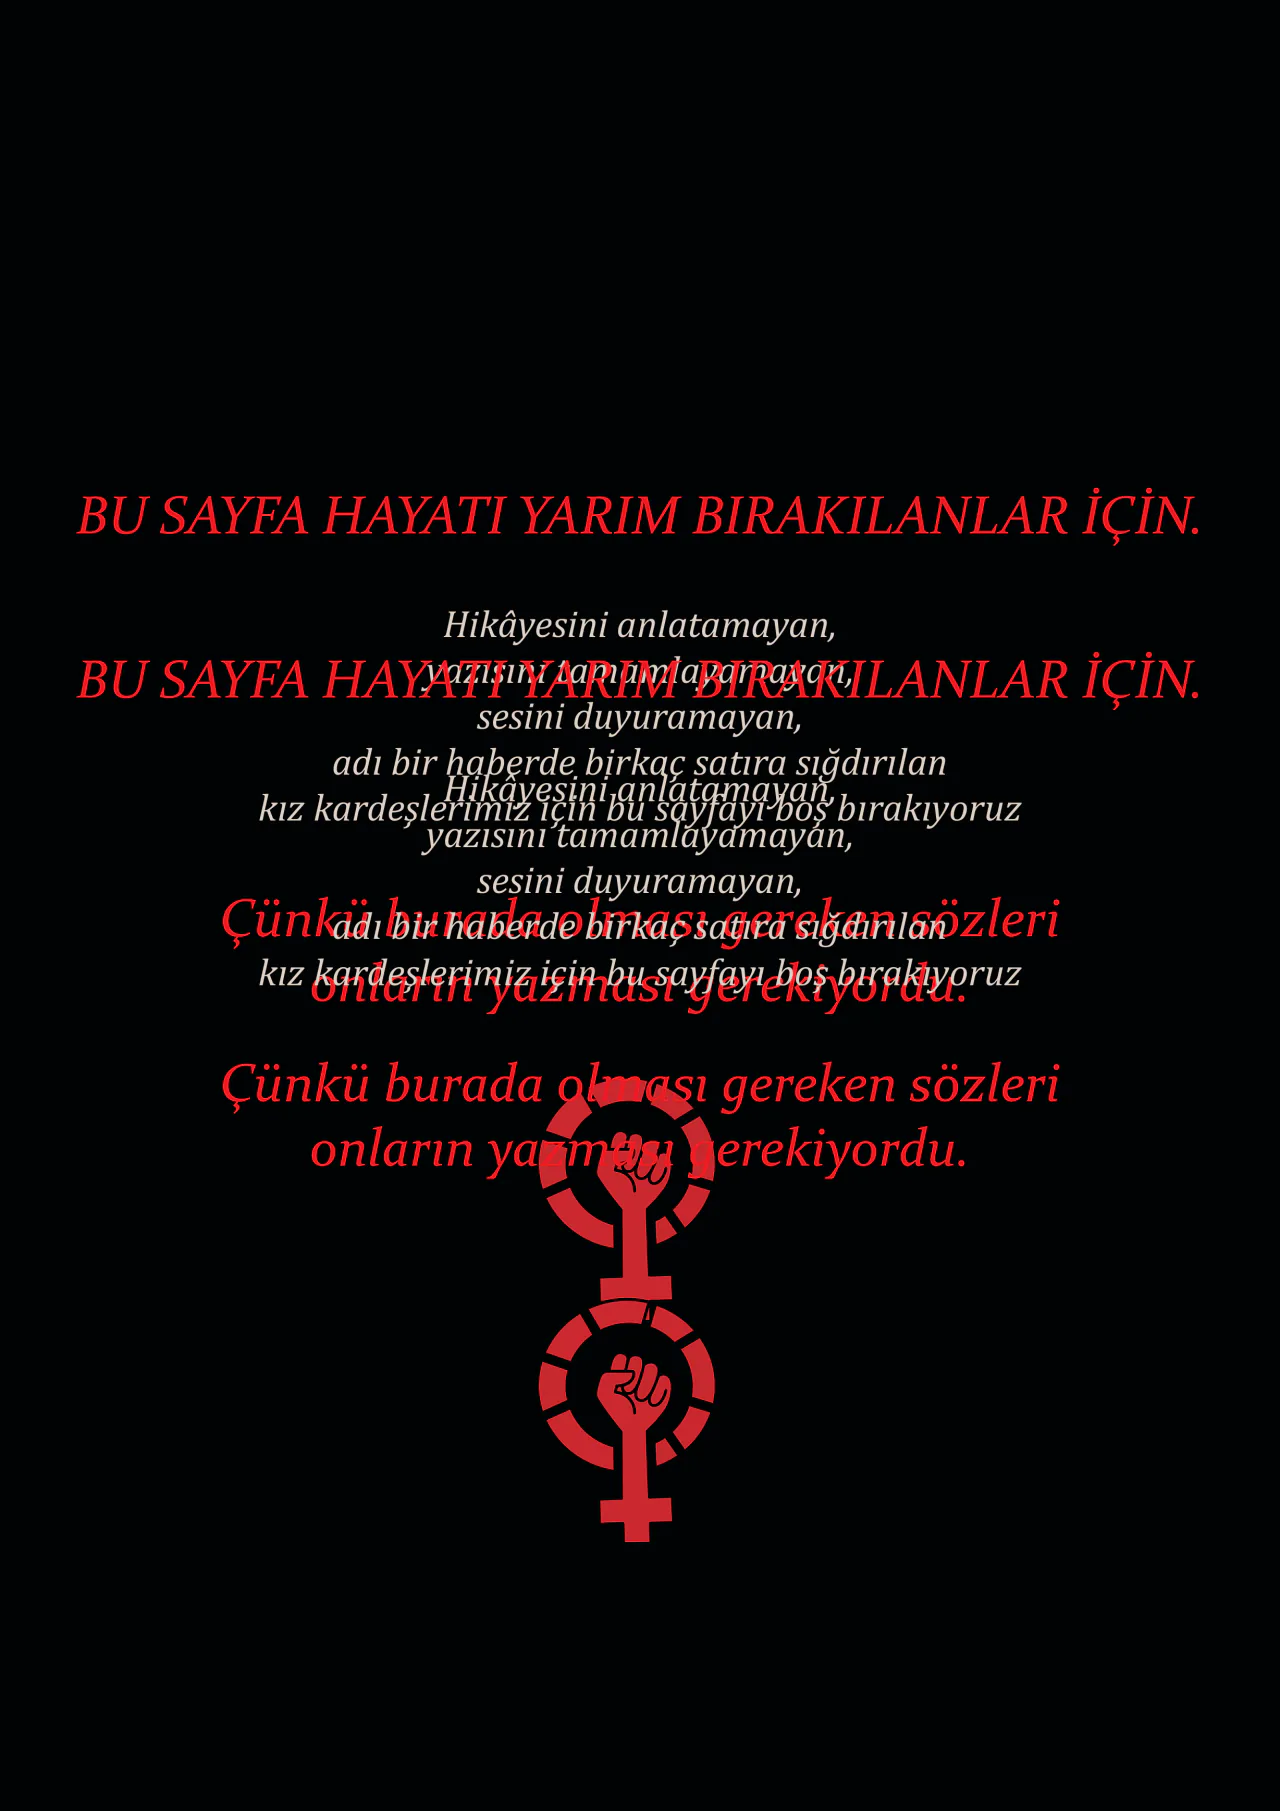
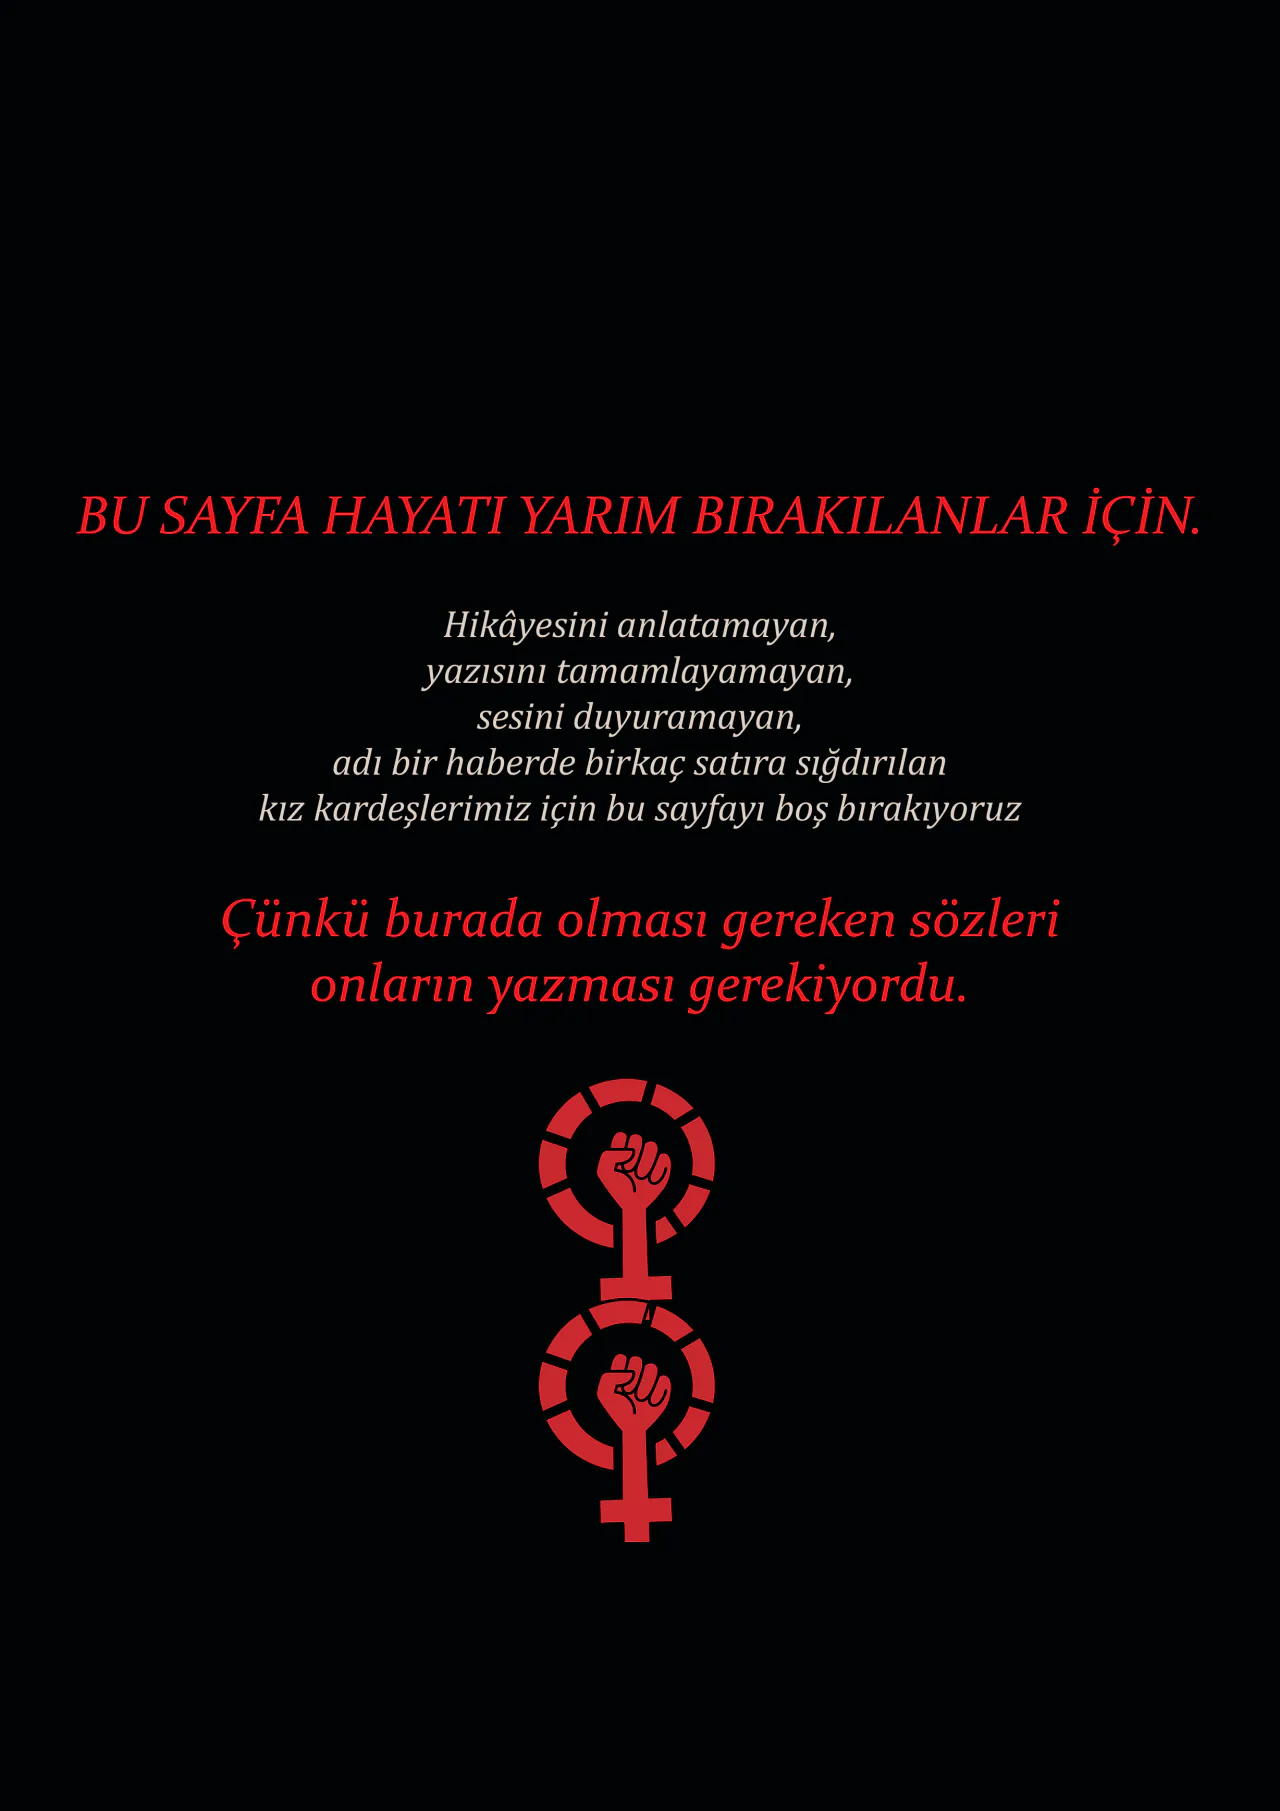
step 239: Sayı 01 anma sayfasındaki çift metin çizimden çıkarıldı, ön kısım panel sırasıyla (D-324)

diff --git a/panel/src/lib/issue-design/issue-01.ts b/panel/src/lib/issue-design/issue-01.ts
@@ -40,8 +40,9 @@
  *    still says 04 and its pages 07/08 under a "BİLİM & TEKNOLOJİ" header.
  *    It sits where its contents number (02) and the gap 10–15 put it, and its
  *    pages follow the text, which runs on from one page to the next.
- *  - The front matter (editor's letter, two contents pages, the memorial
- *    page) has no printed numbers. Its order here is a preview order.
+ *  - The front matter has no printed numbers. Its order is the one an admin
+ *    set by hand in the panel after the first import (D-324): the memorial
+ *    page right after the cover, then the letter and the two contents pages.
  *  - The two covers sit side by side in "POSTSCRIPT 01.ai" the way a wrap-around
  *    cover does: the back on the left, the front on the right. So the front
  *    comes first and the back last.
@@ -73,6 +74,24 @@ export const ISSUE_01_DESIGN: DesignManifest = {
       transcript:
         "POSTSCRIPT. Takıntının Trajedisi — Zihnin Zahir ile imtihanı. Takıntılı Bilim İnsanları — Fizik ve Obsesyon. Sayı 01, Ekim 2026. OBSESSSION",
       areas: [],
+    },
+    {
+      key: "anma",
+      source: "POSTSCRIPT 01.ai",
+      sourcePage: 5,
+      printedNumber: null,
+      role: "page",
+      title: "Hayatı yarım bırakılanlar için",
+      contents: "Hayatı Yarım Bırakılanlar İçin",
+      alt: "Siyah zeminde kırmızı yazılarla bir anma metni; altında iki kadın sembolünün içinde kalkmış yumruk.",
+      transcript: [
+        "BU SAYFA HAYATI YARIM BIRAKILANLAR İÇİN.",
+        "Hikâyesini anlatamayan, yazısını tamamlayamayan, sesini duyuramayan, adı bir haberde birkaç satıra sığdırılan kız kardeşlerimiz için bu sayfayı boş bırakıyoruz.",
+        "Çünkü burada olması gereken sözleri onların yazması gerekiyordu.",
+      ].join("\n\n"),
+      areas: [],
+      // The file has the text twice, the 2nd copy 316 pt lower over the symbol (D-324)
+      omitTextObjects: [3, 4],
     },
     {
       key: "sunus",
@@ -131,23 +150,6 @@ export const ISSUE_01_DESIGN: DesignManifest = {
         "09 — LIFESTYLE & FASHION: El Alem Ne Giyer? Bir Parçanın Peşinden Gitmek. “Aesthetic” Hayatlar. Skincare: Cilt Bakımı mı, Cilt Takıntısı mı. Parfüm: Bir Takıntının Kokusu. Dijital Takıntı. Takıntıdan Dönüşen Stil: Streetwear.",
         "10 — YAZAR KÖŞESİ: “P.S.”: Takıntının Trajedisi: Zihnin Zahir'le İmtihanı. Takıntı: Kar Tanesi ve Zihnin Sonsuz Fraktalı. Susamayan Zihinlerin Yankısı.",
         "11 — EĞLENCE & DEDİKODU: Başarı Takıntısı Grubun Önüne Geçer mi? Çay Koy Yeniden Başlayalım: Bir Fincandaki Gizli Şifa. Hangi Takıntılı Karaktersin? QUIZ!",
-      ].join("\n\n"),
-      areas: [],
-    },
-    {
-      key: "anma",
-      source: "POSTSCRIPT 01.ai",
-      sourcePage: 5,
-      printedNumber: null,
-      role: "page",
-      title: "Hayatı yarım bırakılanlar için",
-      contents: "Hayatı Yarım Bırakılanlar İçin",
-      alt: "Siyah zeminde kırmızı yazılarla bir anma metni; altında iki kadın sembolünün içinde kalkmış yumruk.",
-      // The page prints the text twice, one copy over the other; read once
-      transcript: [
-        "BU SAYFA HAYATI YARIM BIRAKILANLAR İÇİN.",
-        "Çünkü burada olması gereken sözleri onların yazması gerekiyordu.",
-        "Hikâyesini anlatamayan, yazısını tamamlayamayan, sesini duyuramayan, adı bir haberde birkaç satıra sığdırılan kız kardeşlerimiz için bu sayfayı boş bırakıyoruz.",
       ].join("\n\n"),
       areas: [],
     },

diff --git a/panel/scripts/render-issue-design.ts b/panel/scripts/render-issue-design.ts
@@ -34,6 +34,32 @@ function sha256(buffer: Uint8Array): string {
   return createHash("sha256").update(buffer).digest("hex");
 }
 
+/**
+ * Drops the listed BT…ET text objects from a page's content stream, in the
+ * copy held in memory (D-324). Refuses rather than guessing when the page
+ * has fewer text objects than asked for: the file must have changed.
+ */
+function omitTextObjects(doc: mupdf.Document, pageIndex: number, numbers: number[]): void {
+  const page = (doc as mupdf.PDFDocument).loadPage(pageIndex) as mupdf.PDFPage;
+  const contents = page.getObject().get("Contents");
+  const streams = contents.isArray() ? Array.from({ length: contents.length }, (_, i) => contents.get(i)) : [contents];
+  let seen = 0;
+  const dropped = new Set<number>();
+  for (const stream of streams) {
+    const text = stream.readStream().asString().replace(/\bBT\b[\s\S]*?\bET\b/g, (object) => {
+      seen += 1;
+      if (!numbers.includes(seen)) return object;
+      dropped.add(seen);
+      return "";
+    });
+    stream.writeStream(text);
+  }
+  const missing = numbers.filter((number) => !dropped.has(number));
+  if (missing.length) {
+    throw new Error(`Sayfa ${pageIndex + 1}: ${seen} metin nesnesi var, ${missing.join(", ")} bulunamadı. Dosya değişmiş olabilir.`);
+  }
+}
+
 async function main(): Promise<void> {
   const issueNumber = Number(argument("issue") ?? "1");
   const manifest = DESIGNS.find((entry) => entry.issueNumber === issueNumber);
@@ -76,6 +102,7 @@ async function main(): Promise<void> {
     if (page.sourcePage > doc.countPages()) {
       throw new Error(`${page.source} dosyasında ${page.sourcePage}. sayfa yok (${doc.countPages()} sayfa).`);
     }
+    if (page.omitTextObjects?.length) omitTextObjects(doc, page.sourcePage - 1, page.omitTextObjects);
     const drawn = doc.loadPage(page.sourcePage - 1);
     const [x0, y0, x1, y1] = drawn.getBounds();
     const scale = manifest.renderWidth / (x1 - x0);

diff --git a/panel/tests/unit/issue-design.test.ts b/panel/tests/unit/issue-design.test.ts
@@ -152,6 +152,11 @@ describe("issue 01 as shipped", () => {
     expect(issue.pages.at(-1)!.role).toBe("back_cover");
   });
 
+  it("keeps the front matter in the order set in the panel, the memorial page drawn once (D-324)", () => {
+    expect(issue.pages.slice(0, 5).map((entry) => entry.key)).toEqual(["on-kapak", "anma", "sunus", "icindekiler-1", "icindekiler-2"]);
+    expect(issue.pages[1]!.omitTextObjects).toEqual([3, 4]);
+  });
+
   it("keeps the science section in printed order 04 → 09", () => {
     const science = issue.pages.filter((entry) => entry.source === "POSTSCRIPT bilim.ai").map((entry) => entry.printedNumber);
     expect(science).toEqual([4, 5, 6, 7, 8, 9]);

diff --git a/panel/src/lib/issue-design/manifest.ts b/panel/src/lib/issue-design/manifest.ts
@@ -72,6 +72,12 @@ export const designPageSchema = z.strictObject({
   alt: z.string().trim().min(1).max(400),
   transcript: z.string().trim().max(20_000).nullable(),
   areas: z.array(designAreaSchema).max(40),
+  /**
+   * Text objects (BT…ET, 1-based, in the order of the page's content stream)
+   * left out when the page is drawn: for a copy of a text the designer left
+   * on the artboard by mistake (D-324). The .ai file itself is never changed.
+   */
+  omitTextObjects: z.array(z.number().int().min(1)).max(20).optional(),
 });
 
 /**

diff --git a/panel/DECISIONS.md b/panel/DECISIONS.md
@@ -12732,3 +12732,36 @@ sayfalar ekranında "Tasarım sayfalarını içe aktar / güncelle"ye bastığı
 (D-316) düğme reddeder. Migration yok.
 
 **Doğrulama:** Kapı: typecheck, lint, test.
+
+## D-324 — Sayı 01: anma sayfasındaki çift metin çizimden çıkarıldı, ön kısım panel sırasıyla
+
+**İstek (ürün sahibi, D-323'ün canlı kontrolünden sonra):** "Anma yazısında
+yazılar birbirine girmiş; sayfa sıraları yanlıştı, onu düzelttim."
+
+**Durum:** `POSTSCRIPT 01.ai`'nin 5. çizim alanında aynı metin iki kez var:
+içerik akışında dört metin nesnesi (BT…ET), 3. ve 4. olanlar 1. ve 2.'nin
+316 pt aşağı kaydırılmış birebir kopyası. Dosyada tek katman var, gizli
+katman yok. Alttaki kopya kadın sembolünün üzerine biniyor; üstteki kopya
+sembolle birlikte düzgün bir sayfa oluşturuyor. İki seçenek de çizilip
+karşılaştırıldı, üstteki tutuldu. Ayrıca aktarımdan sonra bir admin panelde
+anma sayfasını kapağın arkasına taşıdı; düğmeye yeniden basılırsa manifest
+bu sırayı geri alırdı.
+
+**Karar:**
+- Manifest sayfasına isteğe bağlı `omitTextObjects` alanı eklendi: çizim
+  sırasında bellekteki kopyadan çıkarılacak metin nesnelerinin sırası.
+  `.ai` dosyası yazılmaz. Sayfada istenen numaralı nesne yoksa betik tahmin
+  etmez, durur ("dosya değişmiş olabilir"). Anma sayfası için `[3, 4]`.
+- Ön kısmın sırası panelde verilen sıra oldu: kapak → anma → sunuş →
+  içindekiler 1 → içindekiler 2. Geri kalan sıra canlıdakiyle zaten aynıydı.
+- Ekran okuyucu metni sayfadaki sıraya göre: başlık, beyaz metin, kırmızı
+  kapanış cümlesi.
+
+Tasarımcıya yine de söylenmeli: dosyada kopya duruyor; bir sonraki teslimde
+düzeltilirse `omitTextObjects` kaldırılır (kopya yoksa betik durur ve bunu
+hatırlatır).
+
+**Canlıya etkisi:** Düğmeye yeniden basıldığında yalnızca anma görseli yeni
+anahtarla yüklenir, sıra değişmez. Migration yok.
+
+**Doğrulama:** Kapı: typecheck, lint, test.
